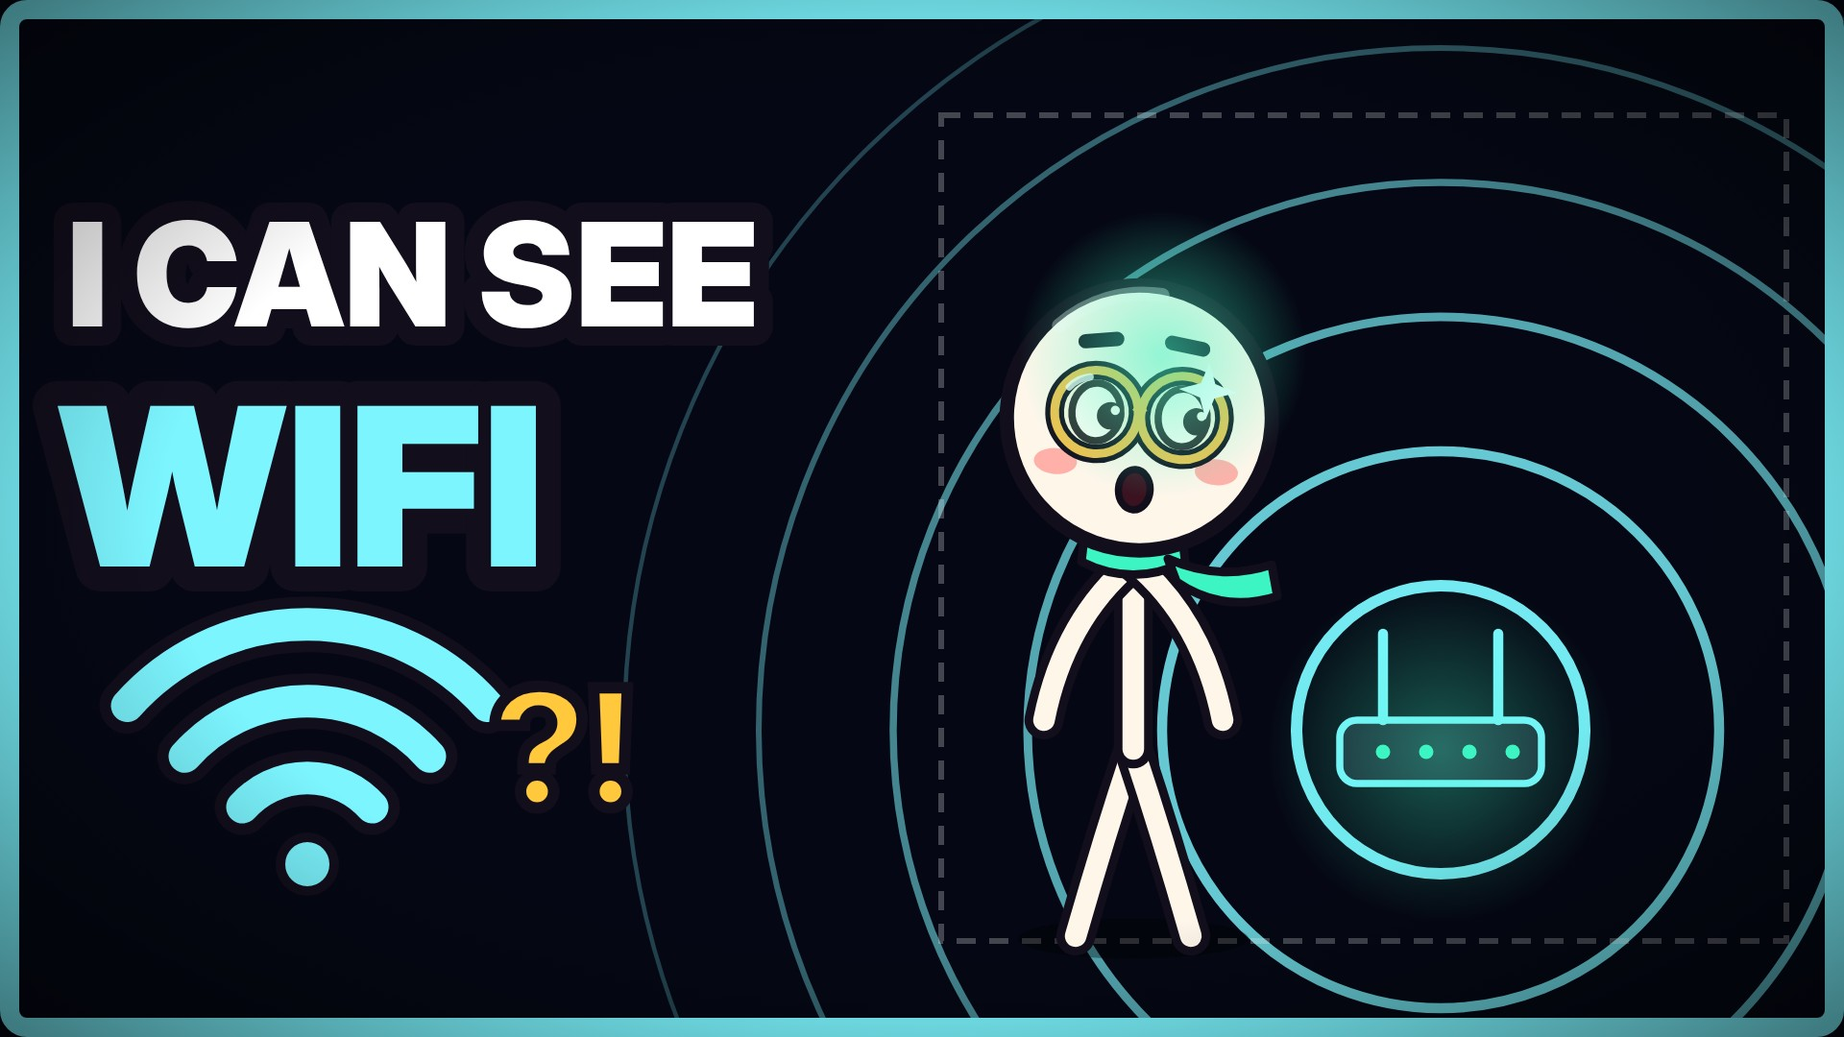
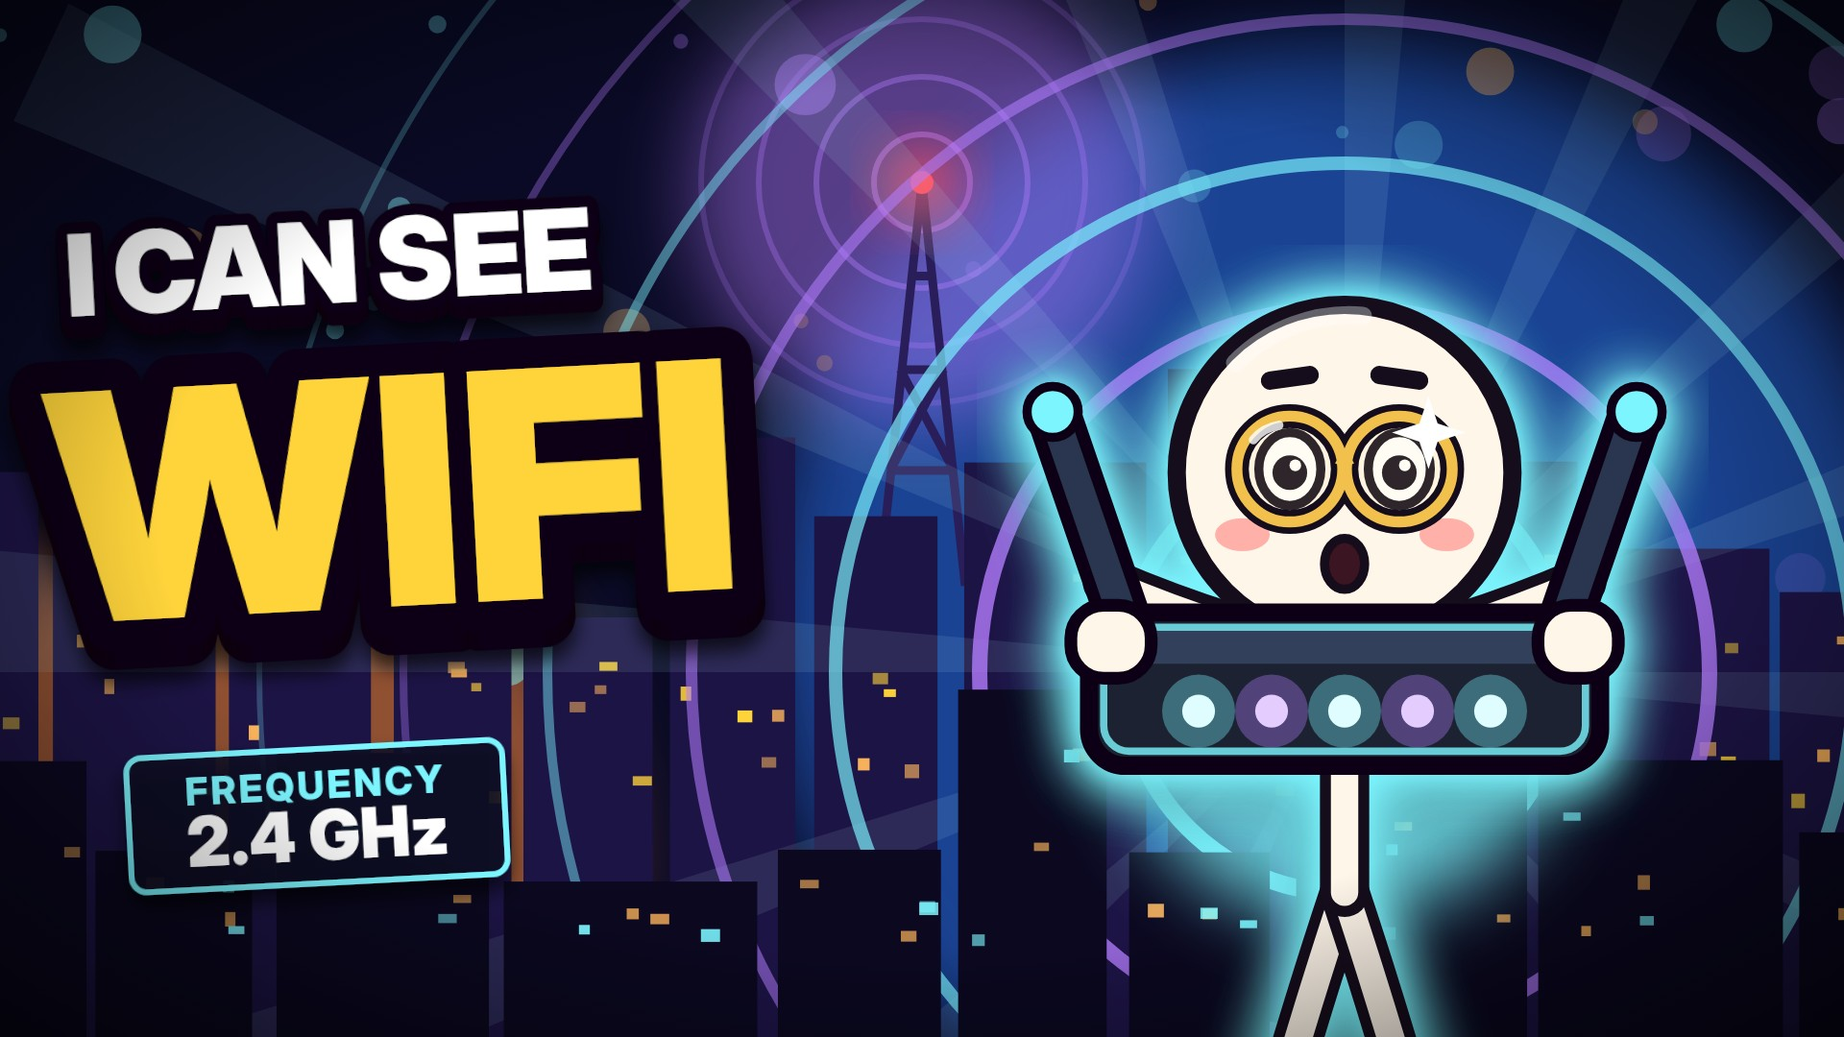
Work in progress: v2 thumbnails and story scripts
Claude-Session: https://claude.ai/code/session_019ai2m2MxcJnxMHWqzPuaSF

diff --git a/episodes/003-see-sound-like-a-bat/thumb2.html b/episodes/003-see-sound-like-a-bat/thumb2.html
@@ -2,22 +2,22 @@
 <script src="../../studio/lib.js"></script><script src="../../studio/shots.js"></script><script src="../../studio/thumbkit.js"></script><script>
 const th_pines=(seed,y0,col,hmin,hmax,wmin,wmax,edge)=>{const r=rng(seed);let s='',x=-60;while(x<1990){const w=wmin+r()*(wmax-wmin),h=hmin+r()*(hmax-hmin);s+=`<path d="M${x} ${y0} L${x+w/2} ${y0-h} L${x+w} ${y0}Z" fill="${col}" ${edge?`stroke="${edge}" stroke-width="6" stroke-opacity=".55"`:''}/>`;x+=w*.55;}return s+`<rect x="0" y="${y0-2}" width="1920" height="${1090-y0}" fill="${col}"/>`;};
 let th_stars='';{const r=rng(7);for(let i=0;i<110;i++)th_stars+=`<circle cx="${r()*1920}" cy="${r()*620}" r="${1+r()*2.5}" fill="#fff" opacity="${.25+r()*.6}"/>`;}
-let th_sonar='';for(let i=0;i<7;i++)th_sonar+=`<circle cx="1420" cy="450" r="${190+i*130}" fill="none" stroke="#3DF5C2" stroke-width="${16-i*1.8}" opacity="${.85-i*.11}"/>`;
-let th_echo='';[0,1,2].forEach(i=>th_echo+=`<path d="M${1640+i*36} ${420-i*34} q30 -6 44 -44" stroke="#FFD43B" stroke-width="12" fill="none" stroke-linecap="round" opacity="${1-i*.25}"/>`);
+let th_sonar='';for(let i=0;i<7;i++)th_sonar+=`<circle cx="1390" cy="480" r="${190+i*130}" fill="none" stroke="#3DF5C2" stroke-width="${16-i*1.8}" opacity="${.85-i*.11}"/>`;
+let th_echo='';[70,115,160].forEach((r,i)=>{const a1=-2.55,a2=-1.75,cx=1722,cy=600;th_echo+=`<path d="M${cx+Math.cos(a1)*r} ${cy+Math.sin(a1)*r} A${r} ${r} 0 0 1 ${cx+Math.cos(a2)*r} ${cy+Math.sin(a2)*r}" stroke="#0A0612" stroke-width="22" fill="none" stroke-linecap="round"/><path d="M${cx+Math.cos(a1)*r} ${cy+Math.sin(a1)*r} A${r} ${r} 0 0 1 ${cx+Math.cos(a2)*r} ${cy+Math.sin(a2)*r}" stroke="#FFD43B" stroke-width="11" fill="none" stroke-linecap="round" opacity="${1-i*.2}"/>`;});
 const th_ear=d=>`<g transform="scale(${d},1)"><path d="M-70 -110 Q-150 -120 -190 -236 Q-150 -200 -120 -214 Q-80 -190 -14 -148Z" fill="#4A3F78" stroke="#120E1C" stroke-width="10" stroke-linejoin="round"/><path d="M-72 -128 Q-130 -140 -160 -206 Q-120 -186 -100 -196 Q-70 -176 -36 -150Z" fill="#FF9EC0"/></g>`;
-const th_ears=th_ear(1)+th_ear(-1);
+const th_ears=`<g transform="translate(0,-60) scale(.78) translate(0,52)">${th_ear(1)+th_ear(-1)}</g>`;
 document.getElementById('s').innerHTML=TK.wrap(`
  <rect width="1920" height="1080" fill="#0A0B2A"/>
  ${TK.glowBlob(1390,430,560,'#2E5BFF',.45)}${TK.glowBlob(380,900,420,'#7C5CFF',.45)}${th_stars}
- <circle cx="1420" cy="440" r="300" fill="#FFE2A8" opacity=".95"/>${TK.glowBlob(1420,440,420,'#FFB65C',.7)}
- ${TK.rays(1420,440,'#FFE2A8',16,1500,.10)}
+ <circle cx="1390" cy="440" r="300" fill="#FFE2A8" opacity=".95"/>${TK.glowBlob(1390,440,420,'#FFB65C',.7)}
+ ${TK.rays(1390,440,'#FFE2A8',16,1500,.10)}
  <g opacity=".95">${th_pines(3,840,'#1B1650',220,460,160,260)}</g>
  ${bat(380,170,.9,1,'#2A2152')}${bat(860,120,.7,2,'#2A2152')}${bat(1080,300,.6,0,'#2A2152')}
  ${th_sonar}
- ${th_pines(11,1000,'#07061A',260,520,200,320,'#3DF5C2')}
+ ${th_pines(11,1000,'#07061A',260,520,200,320)}
  
- ${TK.rim(`<g transform="translate(1420,600) scale(2.0)">${th_ears}${glint({t:.3,mouth:'o',brows:'raised',glint:1,pose:'reach',look:.6})}</g>`,'#3DF5C2',30)}
- ${TK.glowBlob(1730,520,190,'#3DF5C2',.45)}${TK.rim(bat(1730,540,1.3,1.4,'#5B4BA0'),'#3DF5C2',14)}${th_echo}
+ ${TK.rim(`<g transform="translate(1390,610) scale(1.9)">${th_ears}${glint({t:.3,mouth:'o',brows:'raised',glint:1,pose:'reach',look:.6})}</g>`,'#3DF5C2',30)}
+ ${TK.glowBlob(1720,620,170,'#3DF5C2',.5)}${TK.rim(bat(1722,648,1.1,1.4,'#5B4BA0'),'#3DF5C2',14)}${th_echo}
  ${TK.text(70,320,'I SEE WITH',{size:112,fill:'#fff',rot:-3})}
  ${TK.text(55,620,'SOUND',{size:290,fill:'#FFD43B',rot:-3,depth:18})}
  ${TK.badge(330,850,'BAT CLICKS','200 / SEC','#3DF5C2',-3)}

diff --git a/episodes/004-see-wifi/thumb2.html b/episodes/004-see-wifi/thumb2.html
@@ -1,0 +1,29 @@
+<!doctype html><html><head><meta charset="utf-8"><style>html,body{margin:0}svg{display:block}text{font-family:"Inter Display","Inter",sans-serif}</style></head><body><div id="s"></div>
+<script src="../../studio/lib.js"></script><script src="../../studio/shots.js"></script><script src="../../studio/thumbkit.js"></script><script>
+let th_waves='';for(let i=0;i<7;i++){const r=230+i*150;th_waves+=`<circle cx="1400" cy="700" r="${r}" fill="none" stroke="${i%2?'#B47CFF':'#7CF5FF'}" stroke-width="${18-i*2}" opacity="${.9-i*.11}"/>`;}
+let th_tw='';for(let i=0;i<4;i++)th_tw+=`<circle cx="960" cy="190" r="${50+i*60}" fill="none" stroke="#B47CFF" stroke-width="6" opacity="${.5-i*.1}"/>`;
+const th_tower=`<g transform="translate(960,190) scale(.75)"><path d="M-60 560 L0 0 L60 560 M-44 400 H44 M-30 260 H30 M-18 130 H18 M-44 400 L30 260 M44 400 L-30 260" stroke="#2A1E5A" stroke-width="12" fill="none"/><circle r="16" fill="#FF4D5E"/>${TK.glowBlob(0,0,50,'#FF4D5E',.9)}</g>`;
+const th_router=`<g transform="translate(0,60)">
+ <path d="M-112 -10 L-160 -150" stroke="#0A0612" stroke-width="30" stroke-linecap="round"/><path d="M-112 -10 L-160 -150" stroke="#2C3650" stroke-width="16" stroke-linecap="round"/>
+ <path d="M112 -10 L160 -150" stroke="#0A0612" stroke-width="30" stroke-linecap="round"/><path d="M112 -10 L160 -150" stroke="#2C3650" stroke-width="16" stroke-linecap="round"/>
+ <circle cx="-160" cy="-150" r="14" fill="#7CF5FF" stroke="#0A0612" stroke-width="5"/><circle cx="160" cy="-150" r="14" fill="#7CF5FF" stroke="#0A0612" stroke-width="5"/>
+ <rect x="-140" y="-40" width="280" height="84" rx="20" fill="#1C2433" stroke="#0A0612" stroke-width="10"/><rect x="-132" y="-32" width="264" height="68" rx="14" fill="none" stroke="#7CF5FF" stroke-width="4" opacity=".8"/>
+ <rect x="-128" y="-30" width="256" height="18" rx="9" fill="#33405C"/>
+ ${[-1,1].map(d=>`<g transform="translate(${d*128},-30)"><rect x="-22" y="-14" width="44" height="40" rx="18" fill="#FFF6EA" stroke="#0A0612" stroke-width="7"/></g>`).join('')}
+ ${[-80,-40,0,40,80].map((x,i)=>`<circle cx="${x}" cy="14" r="20" fill="${i%2?'#B47CFF':'#7CF5FF'}" opacity=".35"/><circle cx="${x}" cy="14" r="9" fill="${i%2?'#E4CCFF':'#DFFDFF'}"/>`).join('')}</g>`;
+document.getElementById('s').innerHTML=TK.wrap(`
+ <rect width="1920" height="1080" fill="#0A0A26"/>
+ ${TK.glowBlob(1400,640,600,'#2C7BFF',.5)}${TK.glowBlob(260,900,380,'#FF8A3D',.55)}${TK.glowBlob(960,200,240,'#B47CFF',.45)}
+ ${TK.bokeh(8,['#7CF5FF','#B47CFF','#FFB65C'],36,700)}
+ ${th_tw}${th_tower}
+ ${TK.skyline(4,860,'#1D1446',['#FFB65C','#FFD43B'],200,520,90,200)}
+ ${TK.rays(1400,700,'#BFF6FF',16,1500,.10)}
+ ${th_waves}
+ ${TK.skyline(12,1000,'#0B0820',['#FFB65C','#7CF5FF'],80,300,140,280)}
+ ${TK.glowBlob(1400,720,240,'#7CF5FF',.8)}
+ ${TK.rim(`<g transform="translate(1400,600) scale(1.9)">${glint({t:.3,mouth:'o',brows:'raised',glint:1,pose:'reach'})}${th_router}</g>`,'#7CF5FF',30)}
+ ${TK.text(70,330,'I CAN SEE',{size:118,fill:'#fff',rot:-3})}
+ ${TK.text(55,650,'WIFI',{size:330,fill:'#FFD43B',rot:-3,depth:18})}
+ ${TK.badge(330,850,'FREQUENCY','2.4 GHz','#7CF5FF',-3)}
+`,'#0A0A26');
+</script></body></html>

diff --git a/episodes/012-taste-words/thumb2.html b/episodes/012-taste-words/thumb2.html
@@ -1,6 +1,6 @@
 <!doctype html><html><head><meta charset="utf-8"><style>html,body{margin:0}svg{display:block}text{font-family:"Inter Display","Inter",sans-serif}</style></head><body><div id="s"></div>
 <script src="../../studio/lib.js"></script><script src="../../studio/shots.js"></script><script src="../../studio/ep/012.js"></script><script src="../../studio/thumbkit.js"></script><script>
-let th_sw='';[['A',1060,170,-14,'#FF6B8A'],['K',1820,190,12,'#7CF5FF'],['E',1090,820,10,'#B47CFF'],['M',1820,840,-8,'#FFD43B'],['Z',1190,110,6,'#9BE15D']].forEach(([c,x,y,r,col])=>th_sw+=`<g transform="translate(${x},${y}) rotate(${r})"><text text-anchor="middle" font-size="96" font-weight="900" fill="#0A0612" stroke="#0A0612" stroke-width="22" stroke-linejoin="round">${c}</text><text text-anchor="middle" font-size="96" font-weight="900" fill="${col}">${c}</text></g>`);
+let th_sw='';[['A',1060,170,-14,'#FF6B8A'],['E',1090,820,10,'#B47CFF'],['M',1820,840,-8,'#FFD43B'],['Z',1190,110,6,'#9BE15D']].forEach(([c,x,y,r,col])=>th_sw+=`<g transform="translate(${x},${y}) rotate(${r})"><text text-anchor="middle" font-size="96" font-weight="900" fill="#0A0612" stroke="#0A0612" stroke-width="22" stroke-linejoin="round">${c}</text><text text-anchor="middle" font-size="96" font-weight="900" fill="${col}">${c}</text></g>`);
 let th_bub=(x,y,w,h,str,size,tx,ty)=>`<g filter="url(#tkShadow)"><path d="M${x-w/2} ${y-h/2} h${w} a30 30 0 0 1 30 30 v${h-60} a30 30 0 0 1 -30 30 H${tx+40} L${tx} ${ty} L${tx-10} ${y+h/2} H${x-w/2} a30 30 0 0 1 -30 -30 v${-h+60} a30 30 0 0 1 30 -30Z" fill="#FFF6EA" stroke="#0A0612" stroke-width="12" stroke-linejoin="round"/><text x="${x}" y="${y+size*.36}" text-anchor="middle" font-size="${size}" font-weight="900" fill="#0A0612">${str}</text></g>`;
 document.getElementById('s').innerHTML=TK.wrap(`
  <rect width="1920" height="1080" fill="#2A0A2E"/>
@@ -9,11 +9,11 @@ document.getElementById('s').innerHTML=TK.wrap(`
  ${TK.bokeh(21,['#FF6BA8','#FFD43B','#B47CFF','#7CF5FF'],46,820)}
  ${TK.rays(1400,430,'#FFD1E0',18,1500,.12)}
  ${th_sw}
- <g opacity=".28">${th_bub(1050,180,420,130,'"MONDAY"',70,1100,260)}${th_bub(1780,980,300,110,'"HEY"',64,1740,900)}</g>
+ <g opacity=".28">${th_bub(1050,180,420,130,'"MONDAY"',70,1100,260)}</g>
  <g opacity=".5" filter="url(#tkSoft)"></g>
  ${TK.rim(`<g transform="translate(1440,520) scale(2.05)">${glint({t:.3,mouth:'o',brows:'raised',glint:1,pose:'reach',look:.4})}</g>`,'#FF5C9A',30)}
  <g filter="url(#tkShadow)"><g transform="translate(1730,580) rotate(14)">${TK.glowBlob(0,0,170,'#FF3B5C',.7)}${w12_food('straw',0,0,1.75,0)}</g></g>
- ${th_bub(1640,230,420,124,'YOUR NAME',62,1700,320)}
+ ${th_bub(1655,135,370,116,'YOUR NAME',58,1720,240)}
  <g opacity=".9"><g transform="translate(160,120) rotate(-18) scale(.7)" style="filter:blur(5px)">${w12_food('toast',0,0,1,1)}</g><g transform="translate(900,990) rotate(12) scale(.9)" style="filter:blur(6px)">${w12_food('pancake',0,0,1,0)}</g></g>
  ${TK.text(70,320,'I CAN TASTE',{size:112,fill:'#fff',rot:-3})}
  ${TK.text(55,610,'WORDS',{size:272,fill:'#FFD43B',rot:-3,depth:18})}

diff --git a/episodes/005-plants-scream/thumb2.html b/episodes/005-plants-scream/thumb2.html
@@ -1,0 +1,23 @@
+<!doctype html><html><head><meta charset="utf-8"><style>html,body{margin:0}svg{display:block}text{font-family:"Inter Display","Inter",sans-serif}</style></head><body><div id="s"></div>
+<script src="../../studio/lib.js"></script><script src="../../studio/shots.js"></script><script src="../../studio/thumbkit.js"></script><script>
+let th_frame='';for(let i=0;i<9;i++){const x=-40+i*250;th_frame+=`<path d="M${x} 1080 V420 Q${x+125} 300 ${x+250} 420" stroke="#1E3A2C" stroke-width="16" fill="none" opacity=".9"/><path d="M${x} 640 H${x+250}" stroke="#1E3A2C" stroke-width="10" opacity=".8"/>`;}
+let th_leaves='';{const r=rng(21);for(let i=0;i<16;i++){const x=r()*1150,y=930+r()*180,a=-60+r()*120;th_leaves+=`<ellipse cx="${x}" cy="${y}" rx="${90+r()*60}" ry="${34+r()*14}" fill="${i%2?'#123A22':'#0C2A18'}" transform="rotate(${a} ${x} ${y})"/>`;}}
+let th_burst='';[[1580,250,.9],[1795,300,.7],[1810,560,.6]].forEach(([x,y,s])=>{for(let i=0;i<10;i++){const a=i*Math.PI/5,p=`M${x+Math.cos(a)*36*s} ${y+Math.sin(a)*36*s} L${x+Math.cos(a)*92*s} ${y+Math.sin(a)*92*s}`;th_burst+=`<path d="${p}" stroke="#0A0612" stroke-width="${24*s}" stroke-linecap="round"/><path d="${p}" stroke="#FFE14D" stroke-width="${12*s}" stroke-linecap="round"/>`;}});
+const th_face=`<g transform="translate(1700,842) scale(1.15)"><ellipse cx="-44" cy="-22" rx="20" ry="24" fill="#fff" stroke="#0A0612" stroke-width="7"/><ellipse cx="44" cy="-22" rx="20" ry="24" fill="#fff" stroke="#0A0612" stroke-width="7"/><circle cx="-44" cy="-18" r="9" fill="#0A0612"/><circle cx="44" cy="-18" r="9" fill="#0A0612"/>
+ <path d="M-64 -58 L-26 -46 M64 -58 L26 -46" stroke="#0A0612" stroke-width="9" stroke-linecap="round"/><ellipse cx="0" cy="34" rx="30" ry="34" fill="#3a1220" stroke="#0A0612" stroke-width="7"/><ellipse cx="0" cy="50" rx="16" ry="12" fill="#FF6B8A"/></g>`;
+document.getElementById('s').innerHTML=TK.wrap(`
+ <rect width="1920" height="1080" fill="#1A2A1C"/>
+ ${TK.glowBlob(1500,420,620,'#FF9A3D',.6)}${TK.glowBlob(300,250,360,'#FFCF6B',.3)}${TK.glowBlob(400,900,420,'#2E8A47',.5)}
+ ${TK.rays(1500,420,'#FFE6A8',16,1500,.12)}
+ <circle cx="1500" cy="420" r="210" fill="#FFE2A0" opacity=".9"/>
+ ${th_frame}
+ ${TK.bokeh(5,['#FFE14D','#9BE15D','#FFB65C'],40,800)}
+ ${TK.glowBlob(1700,560,340,'#9BE15D',.5)}
+ ${TK.rim(`<g transform="translate(1290,600) scale(1.8)">${glint({t:.3,mouth:'o',brows:'raised',glint:1,pose:'point',look:.8})}</g>`,'#9BE15D',28)}
+ ${TK.rim(plPot(1700,760,1.7,{g:0}),'#9BE15D',16)}${th_face}${th_burst}
+ ${th_leaves}
+ ${TK.text(70,320,'I CAN HEAR',{size:112,fill:'#fff',rot:-3})}
+ ${TK.text(55,620,'PLANTS',{size:250,fill:'#FFD43B',rot:-3,depth:18})}
+ ${TK.badge(330,850,'CLICKS / HOUR','35','#9BE15D',-3)}
+`,'#1A2A1C');
+</script></body></html>

diff --git a/episodes/013-shark-sense/thumb2.html b/episodes/013-shark-sense/thumb2.html
@@ -1,0 +1,24 @@
+<!doctype html><html><head><meta charset="utf-8"><style>html,body{margin:0}svg{display:block}text{font-family:"Inter Display","Inter",sans-serif}</style></head><body><div id="s"></div>
+<script src="../../studio/lib.js"></script><script src="../../studio/shots.js"></script><script src="../../studio/ep/013.js"></script><script src="../../studio/thumbkit.js"></script><script>
+let th_g=0.4;
+let th_far='';[[180,960,300],[420,980,380],[760,950,260],[1040,990,340],[1700,950,300]].forEach(([x,y,h],i)=>th_far+=s13_weed(x,y,h,th_g+i,'#0E3A4A'));
+let th_fish='';[[640,180,.45,1],[820,250,.35,1],[900,150,.3,1],[300,140,.4,-1]].forEach(([x,y,s,d],i)=>th_fish+=s13_fish(x,y,s,th_g+i,'#2C6A8A',d));
+let th_bub='';{const r=rng(8);for(let i=0;i<26;i++)th_bub+=`<circle cx="${1050+r()*820}" cy="${80+r()*820}" r="${4+r()*14}" fill="none" stroke="#BFEFFF" stroke-width="3" opacity="${.25+r()*.4}"/>`;}
+document.getElementById('s').innerHTML=TK.wrap(`
+ ${s13_water(th_g,{sy:930})}
+ ${TK.glowBlob(1450,430,560,'#1E9BD8',.55)}${TK.glowBlob(300,300,380,'#0F6A9A',.4)}${TK.glowBlob(1560,520,260,'#FFE14D',.35)}
+ ${TK.rays(1300,-80,'#BFEFFF',22,1400,.08)}
+ <g opacity=".8">${th_far}${th_fish}</g>
+ ${s13_pulse(1340,700,th_g,{max:620,n:5,op:.75,w:10})}
+ <g filter="url(#tkShadow)"><g style="filter:drop-shadow(0 0 14px #5CF2FF)">${s13_shark(1600,250,1.6,th_g,{dir:-1,glow:1,mouth:'open'})}</g></g>
+ ${TK.rim(`<g transform="translate(1340,600) scale(1.9)">${glint({t:.3,mouth:'o',brows:'raised',glint:1,pose:'up',look:-.2})}</g>`,'#5CF2FF',30)}
+ ${s13_zap(1535,460,110,-70,th_g,2,'#FFE14D',9)}${s13_zap(1540,465,120,-40,th_g+.3,5,'#5CF2FF',8)}${s13_zap(1150,460,110,-110,th_g+.6,9,'#FFE14D',8)}${s13_zap(1140,465,100,-140,th_g+.9,4,'#5CF2FF',7)}
+ ${s13_heartMini(1340,780,.42,0.05,1)}
+ ${th_bub}
+ <g style="filter:blur(6px)" opacity=".8"><circle cx="1010" cy="990" r="46" fill="#BFEFFF" fill-opacity=".15" stroke="#DFF8FF" stroke-width="8"/><circle cx="1090" cy="900" r="26" fill="none" stroke="#DFF8FF" stroke-width="6"/><circle cx="110" cy="110" r="40" fill="#BFEFFF" fill-opacity=".15" stroke="#DFF8FF" stroke-width="8"/></g>
+ ${TK.text(70,320,"I HAVE A SHARK'S",{size:104,fill:'#fff',rot:-3})}
+ ${TK.text(55,620,'6TH',{size:320,fill:'#FFD43B',rot:-3,depth:18})}
+ ${TK.text(600,605,'SENSE',{size:150,fill:'#FFD43B',rot:-3,depth:14})}
+ ${TK.badge(380,850,'DETECTS','0.000000001 V','#5CF2FF',-3)}
+`,'#06213A');
+</script></body></html>

diff --git a/episodes/015-hibernate/thumb2.html b/episodes/015-hibernate/thumb2.html
@@ -1,0 +1,27 @@
+<!doctype html><html><head><meta charset="utf-8"><style>html,body{margin:0}svg{display:block}text{font-family:"Inter Display","Inter",sans-serif}</style></head><body><div id="s"></div>
+<script src="../../studio/lib.js"></script><script src="../../studio/shots.js"></script><script src="../../studio/ep/015.js"></script><script src="../../studio/thumbkit.js"></script><script>
+let th_g=.4;
+let th_st='';{const r=rng(15);for(let i=0;i<80;i++)th_st+=`<circle cx="${r()*1920}" cy="${r()*640}" r="${.8+r()*2.2}" fill="#fff" opacity="${.25+r()*.5}"/>`;}
+let th_pine=(x,y,h,c)=>`<path d="M${x} ${y-h} L${x+h*.32} ${y-h*.35} H${x+h*.14} L${x+h*.42} ${y} H${x-h*.42} L${x-h*.14} ${y-h*.35} H${x-h*.32}Z" fill="${c}"/>`;
+let th_far='';[[60,760,330],[230,740,260],[520,760,300],[760,730,240],[1820,760,320],[1640,740,250]].forEach(([x,y,h])=>th_far+=th_pine(x,y,h,'#16234A'));
+document.getElementById('s').innerHTML=TK.wrap(`
+ <rect width="1920" height="1080" fill="#0B1838"/>${th_st}
+ ${TK.glowBlob(1000,170,300,'#BFD8FF',.45)}
+ ${TK.rays(1000,170,'#DDE9FF',18,1500,.08)}
+ <circle cx="1000" cy="170" r="74" fill="#FFF4DC"/><circle cx="1022" cy="150" r="14" fill="#E8DCC0"/><circle cx="975" cy="195" r="10" fill="#E8DCC0"/>
+ ${th_far}
+ <path d="M-50 1080 V760 Q300 700 700 740 Q1200 680 1970 750 V1080Z" fill="#C9DBF2" stroke="#0A0612" stroke-width="8"/>
+ ${h15_den(1340,900,1.25,{snow:1,inner:TK.glowBlob(0,-120,260,'#FF8A2E',.8)})}
+ ${TK.glowBlob(1340,780,420,'#FF9A3D',.35)}
+ <path d="M-50 1080 V880 Q500 830 1000 870 Q1500 830 1970 880 V1080Z" fill="#EEF5FF"/>
+ <g filter="url(#tkShadow)">${h15_bearSleep(1340,1075,1.7,th_g)}</g>
+ ${TK.rim(`<g transform="translate(1385,392) scale(1.8)">${glint({t:.3,mouth:'o',brows:'raised',eyes:'closed',pose:'up',legs:'sit'})}</g>`,'#FFA24D',28)}
+ ${h15_zzz(1010,780,th_g,1.6,'#BFE3FF')}${h15_zzz(1600,250,th_g+1.4,1.4,'#BFE3FF')}
+ ${h15_snow(th_g,90,.9)}
+ <g style="filter:blur(5px)">${[[90,140,16],[880,960,22],[1180,80,14],[620,420,12]].map(([x,y,r])=>`<circle cx="${x}" cy="${y}" r="${r}" fill="#fff" opacity=".8"/>`).join('')}</g>
+ ${TK.text(70,320,'I SLEPT FOR',{size:112,fill:'#fff',rot:-3})}
+ ${TK.text(55,630,'5',{size:330,fill:'#FFD43B',rot:-3,depth:18})}
+ ${TK.text(290,615,'MONTHS',{size:170,fill:'#FFD43B',rot:-3,depth:14})}
+ ${TK.badge(330,860,'HEART RATE','&lt;10 BPM','#FFA24D',-3)}
+`,'#0B1838');
+</script></body></html>

diff --git a/episodes/014-magnetic-sense/thumb2.html b/episodes/014-magnetic-sense/thumb2.html
@@ -1,0 +1,23 @@
+<!doctype html><html><head><meta charset="utf-8"><style>html,body{margin:0}svg{display:block}text{font-family:"Inter Display","Inter",sans-serif}</style></head><body><div id="s"></div>
+<script src="../../studio/lib.js"></script><script src="../../studio/shots.js"></script><script src="../../studio/ep/014.js"></script><script src="../../studio/thumbkit.js"></script><script>
+let th_g=1.3;
+let th_st='';{const r=rng(14);for(let i=0;i<110;i++)th_st+=`<circle cx="${r()*1920}" cy="${r()*900}" r="${.8+r()*2.4}" fill="#fff" opacity="${.25+r()*.6}"/>`;}
+let th_fl='';[520,760,1000].forEach((L,i)=>[-1,1].forEach(d=>{const p=`M1400 880 C${1400+d*L*.35} ${880-L*.95} ${1400+d*L*1.35} ${880-L*.55} ${1400+d*L*1.15} 1120`;th_fl+=`<path d="${p}" stroke="#7CF5FF" stroke-width="26" fill="none" opacity=".12"/><path d="${p}" stroke="#7CF5FF" stroke-width="9" fill="none" opacity="${.75-i*.15}" stroke-dasharray="26 18" stroke-linecap="round"/>`;}));
+let th_pine=(x,y,h,c)=>`<path d="M${x} ${y-h} L${x+h*.32} ${y-h*.35} H${x+h*.14} L${x+h*.42} ${y} H${x-h*.42} L${x-h*.14} ${y-h*.35} H${x-h*.32}Z" fill="${c}" stroke="#0A0612" stroke-width="8" stroke-linejoin="round"/>`;
+document.getElementById('s').innerHTML=TK.wrap(`
+ <rect width="1920" height="1080" fill="#061026"/>${th_st}
+ ${TK.glowBlob(1400,900,620,'#2E7CFF',.45)}${TK.glowBlob(300,250,420,'#7CF5A0',.22)}
+ ${m14_aurora(-40,230,2000,170,th_g,.95)}
+ ${TK.rays(1690,380,'#FFE6A0',16,1500,.09)}
+ ${th_fl}
+ <g opacity=".95">${m14_earth(1400,1560,680,th_g,{id:'th',glow:.12})}</g>
+ ${TK.glowBlob(1700,395,280,'#FFC23B',.7)}
+ ${TK.rim(`<g transform="translate(1380,350) scale(1.8)">${glint({t:.3,mouth:'grin',brows:'raised',glint:1,pose:'reach',look:.5})}</g>`,'#7CF5A0',28)}
+ <g filter="url(#tkShadow)">${m14_compass(1700,395,1.45,0,{glow:.8})}</g>
+ <g transform="translate(1700,150)" filter="url(#tkShadow)"><path d="M0 -60 L44 0 H16 V40 H-16 V0 H-44Z" fill="#FF4D4D" stroke="#0A0612" stroke-width="9" stroke-linejoin="round"/></g>
+ <g style="filter:blur(6px)">${th_pine(70,1140,520,'#04140C')}${th_pine(900,1150,300,'#04140C')}</g>
+ ${TK.text(70,320,'I ALWAYS KNOW',{size:108,fill:'#fff',rot:-3})}
+ ${TK.text(55,620,'NORTH',{size:290,fill:'#FFD43B',rot:-3,depth:18})}
+ ${TK.badge(350,850,'POLE DRIFT','50 KM/YR','#7CF5A0',-3)}
+`,'#061026');
+</script></body></html>

diff --git a/episodes/006-never-forget/thumb2.html b/episodes/006-never-forget/thumb2.html
@@ -1,0 +1,21 @@
+<!doctype html><html><head><meta charset="utf-8"><style>html,body{margin:0}svg{display:block}text{font-family:"Inter Display","Inter",sans-serif}</style></head><body><div id="s"></div>
+<script src="../../studio/lib.js"></script><script src="../../studio/shots.js"></script><script src="../../studio/thumbkit.js"></script><script>
+let th_drawers='';for(let c=0;c<9;c++)for(let r=0;r<6;r++){const x=-20+c*220,y=60+r*150;th_drawers+=`<rect x="${x}" y="${y}" width="200" height="132" rx="10" fill="#22164A" stroke="#120B2A" stroke-width="8"/><rect x="${x+70}" y="${y+56}" width="60" height="16" rx="8" fill="${(c*7+r*3)%5?'#3A2A6E':'#FFB86B'}"/>`;}
+const th_ks=['cake','school','party','house','teacher','heart','rain','face','cake','party'];
+let th_far='';[[1060,180,.42,-14],[1780,130,.4,12],[1180,930,.42,10],[1830,760,.38,-8]].forEach(([x,y,s,r],i)=>th_far+=memCard(x,y,s,th_ks[i+3],r,{glow:.5}));
+let th_near='';[[1640,250,.62,14,'cake'],[1150,300,.58,-12,'school'],[1120,720,.7,-10,'party'],[1690,720,.7,10,'heart']].forEach(([x,y,s,r,k])=>th_near+=memCard(x,y,s,k,r,{glow:.8}));
+document.getElementById('s').innerHTML=TK.wrap(`
+ <rect width="1920" height="1080" fill="#140C2E"/>
+ <g opacity=".75">${th_drawers}</g>
+ ${TK.glowBlob(1400,480,520,'#FF9A3D',.5)}${TK.glowBlob(300,850,400,'#7C5CFF',.55)}
+ ${TK.rays(1400,480,'#FFE2A8',18,1500,.13)}
+ <circle cx="1400" cy="480" r="250" fill="#FFD9A0" opacity=".55" filter="url(#tkSoft)"/>
+ ${th_far}
+ ${TK.rim(`<g transform="translate(1400,610) scale(1.9)">${glint({t:.3,mouth:'o',brows:'raised',glint:1,pose:'shrug'})}</g>`,'#FFB86B',30)}
+ ${th_near}
+ ${TK.bokeh(17,['#FFD43B','#FFB86B','#B47CFF'],34,1080)}
+ ${TK.text(70,320,"I CAN'T",{size:118,fill:'#fff',rot:-3})}
+ ${TK.text(55,630,'FORGET',{size:250,fill:'#FFD43B',rot:-3,depth:18})}
+ ${TK.badge(330,850,'MEMORY LOST','0%','#FFB86B',-3)}
+`,'#140C2E');
+</script></body></html>
